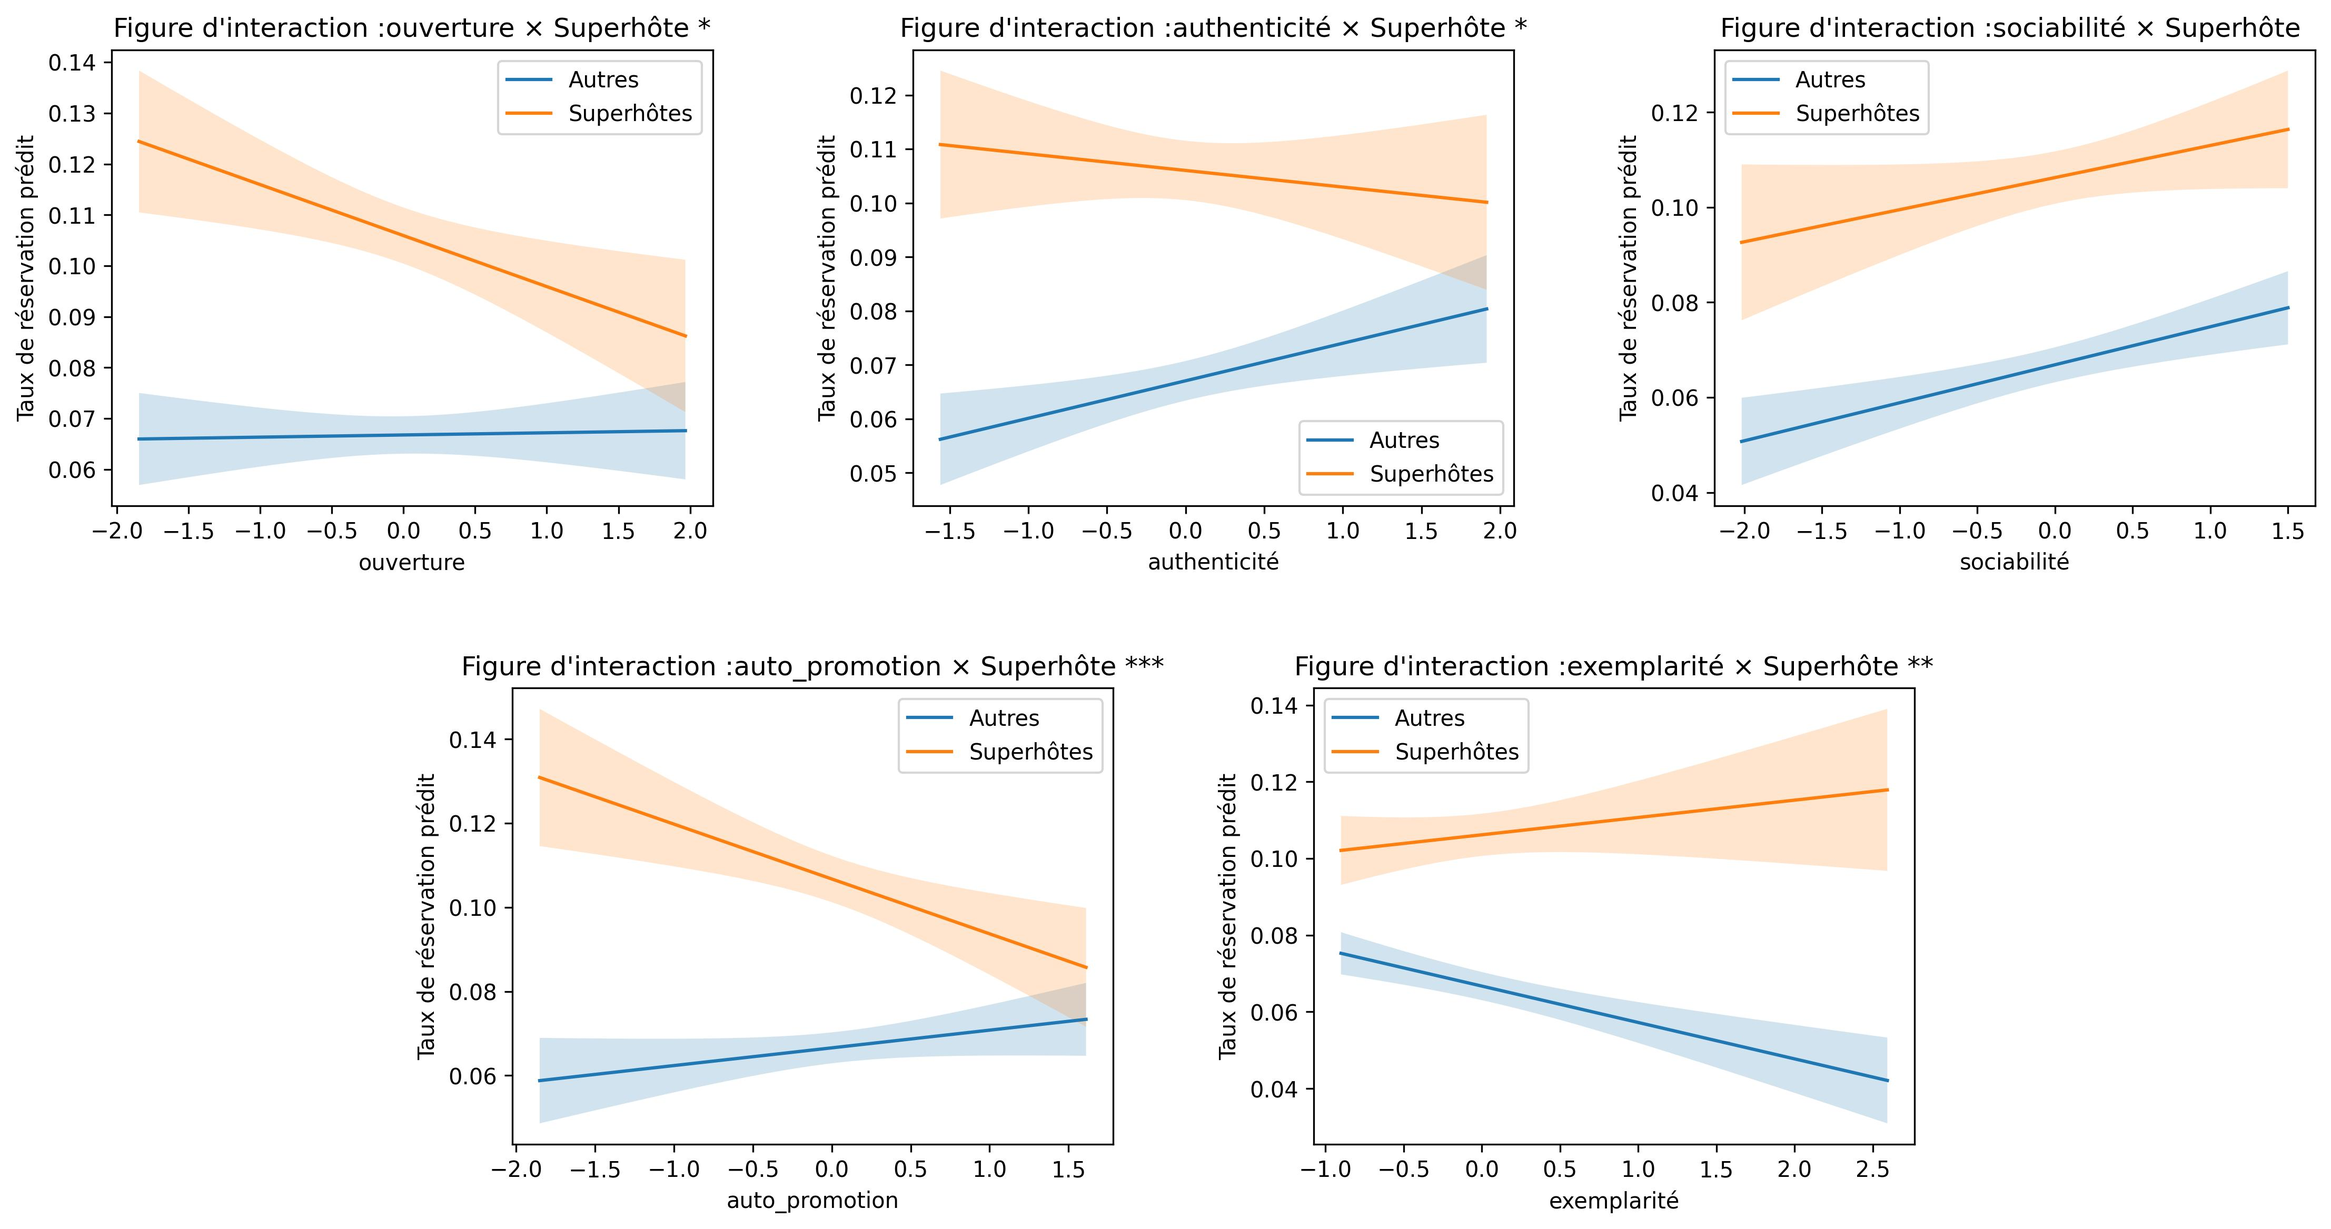
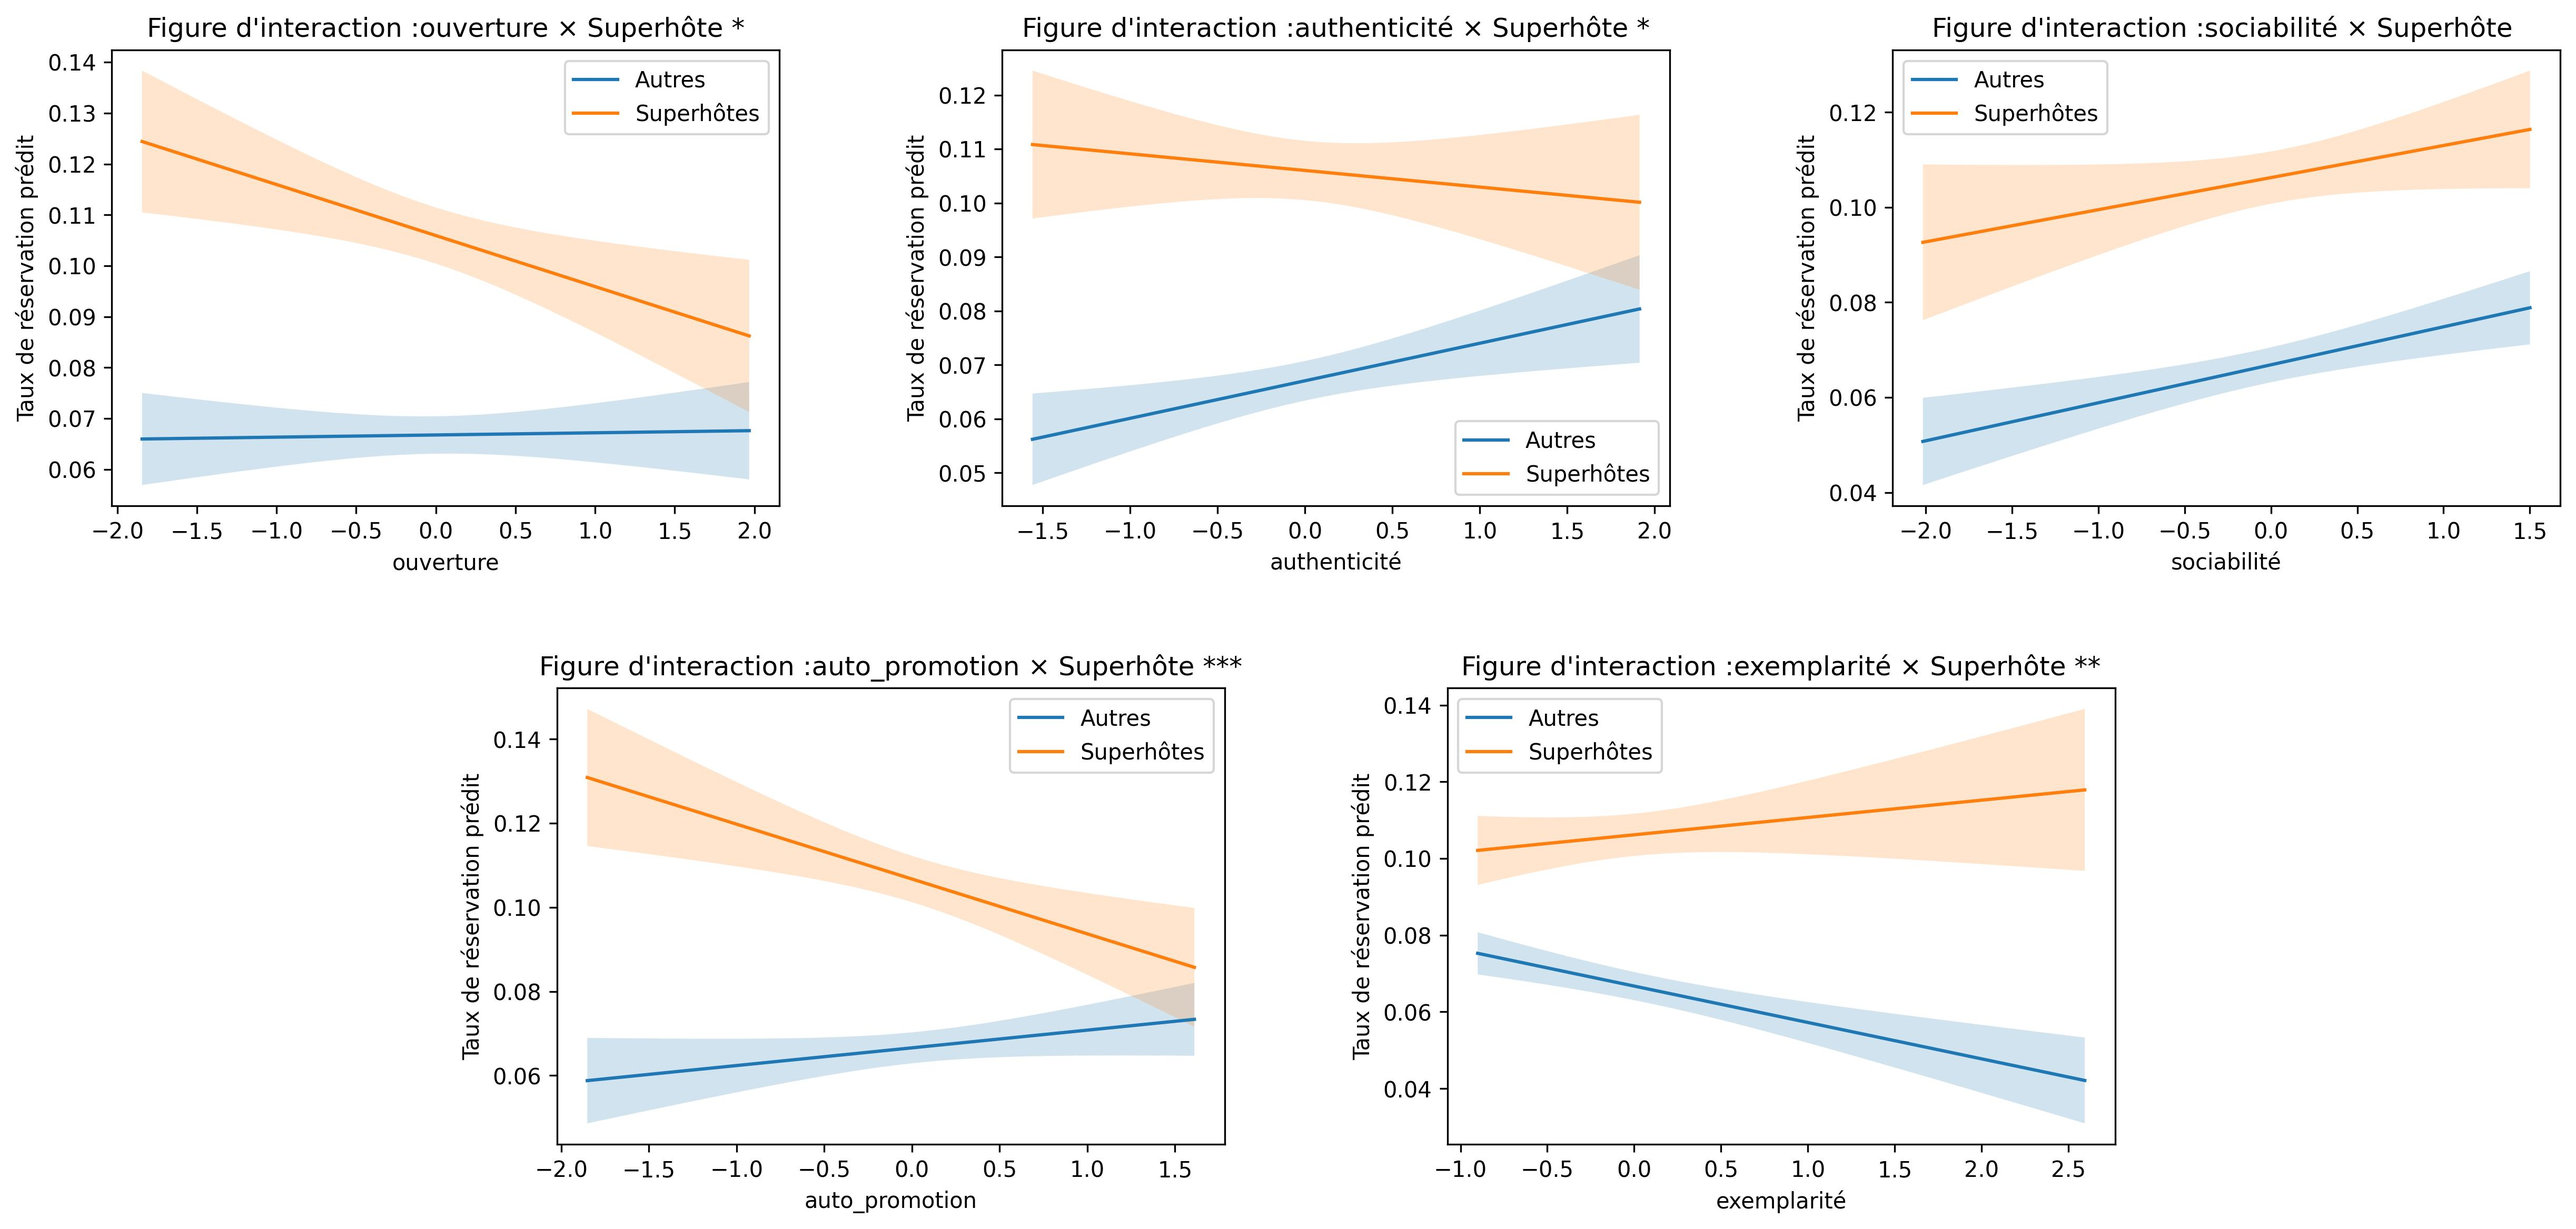
interaction plot

diff --git a/utils/modeling.py b/utils/modeling.py
@@ -131,6 +131,7 @@ def build_model (df_input, x_vars, key_vars=None, to_fillna0=False,
 def plot_key_var(df_input, x_vars, y_var, tactics_vars, 
                      tactic_fr, group_col=None, 
                      ax=None, show=True):
+    
     import pandas as pd
     import numpy as np
     import matplotlib.pyplot as plt
@@ -139,7 +140,7 @@ def plot_key_var(df_input, x_vars, y_var, tactics_vars,
     
     """
     直接输入formula保证变量一致，因为df、tactics、formula的名字改变，直接重新建模
-    目前只使用host_is_superhost的分组！
+    可以改变group_col，但label中直接显示该col的类别，只有host_is_superhost重写成Superhôtes/Autres！
     
     """
     df=df_input.copy()
@@ -323,7 +324,14 @@ def plot_key_var(df_input, x_vars, y_var, tactics_vars,
 
     ax.set_xlabel(f"{tactic_fr_map.get(tactic_fr,None)}")
     ax.set_ylabel('Taux de réservation prédit')
-    ax.set_title(f"Figure d'interaction :{tactic_fr_map.get(tactic_fr,None)} × Superhôte {sig}")
+    if group_col:
+        if group_col=="host_is_superhost":
+            title=f"Figure d'interaction :{tactic_fr_map.get(tactic_fr,None)} × Superhôte {sig}"
+        else : #其他分组变量
+            title=f"Figure d'interaction :{tactic_fr_map.get(tactic_fr,None)} × {group_col} {sig}"
+    else :#无分组变量
+        title=f"Tactique {tactic_fr_map.get(tactic_fr,None)} {sig}"    
+    ax.set_title(title)
     ax.legend()
     
     if show and ax is None:
